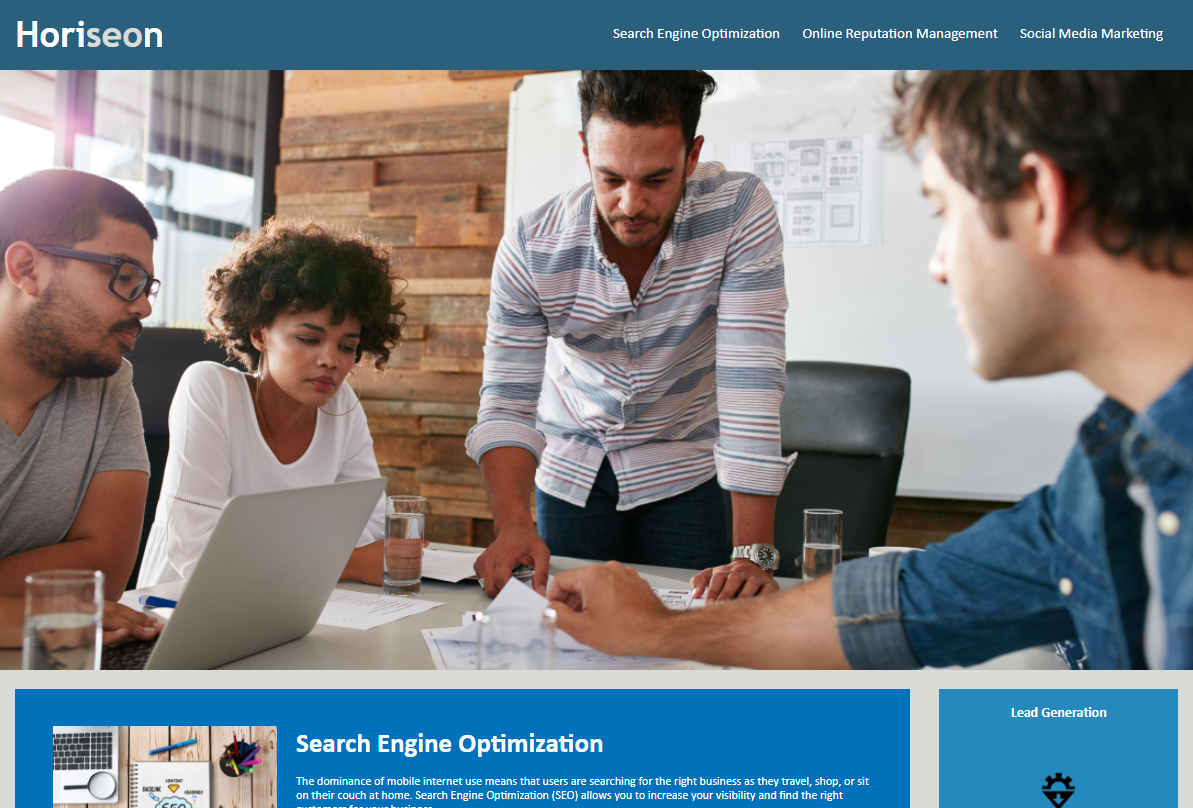
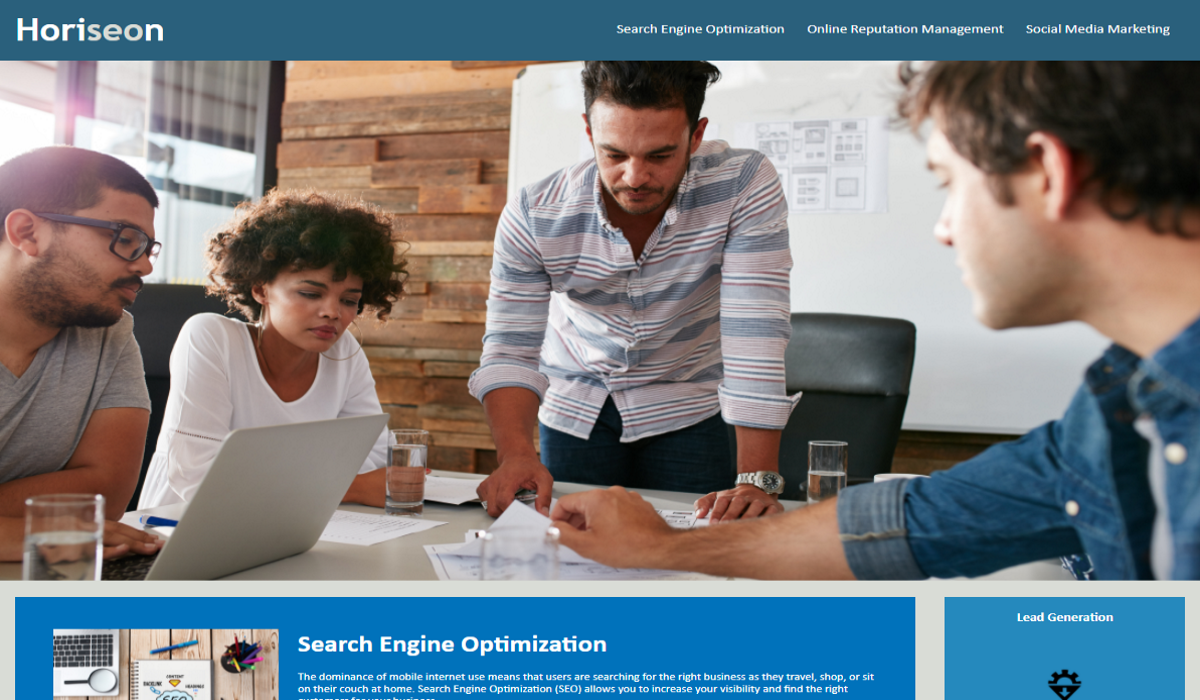
Getting closer- now fully responsive- minor aesthetic issues

diff --git a/index.html b/index.html
@@ -36,7 +36,10 @@
         </div>
 
         <div class="col-9 menu rightBox">
+          <img id= "selfPortrait" src="./img/lenoreAndMe.png">
           <p>Lorem ipsum dolor sit, amet consectetur adipisicing elit. Accusamus sapiente minima quas suscipit atque quibusdam dolores, dolor velit illum corrupti officiis recusandae modi unde omnis. Nam praesentium porro dicta error at, accusamus ipsum voluptatibus voluptate unde id impedit, inventore totam a voluptatem nemo. Maxime soluta sit inventore iste accusamus tempore non eaque? Tempora accusamus necessitatibus aperiam soluta ullam. Rem aut accusamus suscipit nihil, atque, maxime ipsum fugiat temporibus, consequuntur tempore blanditiis libero dolore voluptas quam mollitia sequi dolor perspiciatis vitae possimus! Explicabo tempora, laudantium repellendus, quo, sed ullam inventore placeat reprehenderit aliquam perspiciatis rem cupiditate maiores alias fuga excepturi.</p>
+          <p>Lorem ipsum dolor sit amet consectetur adipisicing elit. Suscipit aspernatur minus at maxime! Molestias cum dicta labore voluptatem tempore sint minima officiis? Tempora, et odit.</p>
+          <img id="wifeAndMe" src="./img/crissyAndMe.png">
         </div>
 
       </section>
@@ -46,9 +49,60 @@
         <div class="col-3 menu leftBox">
           <h1 id="works">My Works</h1>
         </div>
+        
+          <section class="col-9 menu gallery">
+              <section class="row">
+                <div class="col-12 menu">
+                  <section class="highlightedText1">
+                    <h2>SEO Website Refactoring Project</h2>
+                    <p>HTML</p>
+                  </section>
+                  <img class="bigPic" src="./img/refactorImage.png">
+                </div>
+              </section>
 
-        <div class="col-9 menu rightBox">
-          <p>Lorem ipsum dolor sit amet, consectetur adipisicing elit. Veritatis numquam accusamus culpa laborum iure dolore perspiciatis quos minus et dolor ut optio sit, unde autem adipisci laboriosam illum illo vitae voluptate ipsa! Expedita distinctio tenetur animi deleniti ipsam necessitatibus amet aliquid accusamus nam, totam ratione pariatur non, harum eveniet laborum. Sapiente debitis quo perferendis quos? Provident nisi facilis corrupti consequuntur porro, voluptatum asperiores, rem, minima exercitationem illo vel. Asperiores, perferendis! Cumque animi unde impedit aliquid. Voluptas, tempora. Tenetur voluptate, quam exercitationem nostrum suscipit fugit, sapiente perferendis hic dolores a qui placeat similique provident commodi, aliquid necessitatibus omnis? Iste neque voluptates cumque est aperiam voluptatum sunt laborum, quod odit rerum eligendi et!</p>
+              <section class="row">
+                <div class="col-6 menu">
+                  <section class="highlightedText2">
+                    <h2>Placeholder</h2>
+                    <p>HTML/CSS</p>
+                  </section>
+                  <img class="smolPic" src="./img/catImage.png">
+                </div>
+                <div class="col-6 menu">
+                  <section class="highlightedText2">
+                    <h2>Placeholder2</h2>
+                    <p>HTML/CSS/Javascript</p>
+                  </section>
+                  <img class="smolPic" src="./img/foodImage.png">
+                </div>
+              </section>
+
+              <section class="row">
+                <div class="col-6 menu">
+                  <section class="highlightedText2">
+                    <h2>Placeholder3</h2>
+                    <p>HTML/CSS/Javascript</p>
+                  </section>
+                  <img class="smolPic" src="./img/controllerImage.png">
+                </div>
+                <div class="col-6 menu">
+                  <section class="highlightedText2">
+                    <h2>Placeholder4</h2>
+                    <p>HTML/CSS/Javascript</p>
+                  </section>
+                  <img class="smolPic" src="./img/artImage.png">
+                </div>
+              </section>
+
+
+
+          </setion>
+        </section>
+
+
+
+
         </div>
 
       </section>

diff --git a/css/style.css b/css/style.css
@@ -20,6 +20,77 @@
 /* Format is fairly responsive, but a few media queries should tweak it for a few additional platforms */
 /* As page size shrinks, header values shrink and normal fonts grow */
 
+/* Minor cosmetic changes for Medium-windows and Tablets */
+@media only screen and (max-width: 1050px) {
+    .highlightedText1 h2 {
+        padding: 0 5px 0 15px !important;
+        font-size: 1.5rem;
+    }
+
+    .bottomLinx li {
+        padding: 25px !important;
+        font-size: 1.25rem !important;
+    }
+
+    nav a {
+        font-size: 1.25rem !important;
+    }
+
+    nav p {
+        padding: 0 25px 0 25px !important;
+    }
+
+    #bio, #works, #contact {
+        font-size: 1.75rem !important;
+    }
+}
+
+/* More drastic changes for small-windows and phones */
+@media only screen and (max-width: 699px) {
+    nav a {
+        font-size: 1rem !important;
+        margin: 5px !important;
+    }
+
+    .highlightedText1 h2 {
+        padding: 0 !important;
+        font-size: 1rem !important;
+    }
+
+    .highlightedText1 p {
+        padding: 0 !important;
+        font-size: 1rem !important;
+    }
+
+    .highlightedText2 {
+        font-size: 0.75rem !important;
+    }
+
+    #bio, #works,#contact {
+        font-size: 1.25rem !important;
+    }
+
+    .bottomLinx li {
+        padding: 10px !important;
+        font-size: 1rem !important;
+    }
+
+}
+
+/* The following settings should work for most phones */
+@media only screen and (max-width: 485px) {
+    #bio, #works, #contact {
+        font-size: 1rem !important;
+    }
+
+    .bottomLinx li {
+        padding: 0 0 10px 0 !important;
+        font-size: 1rem !important;
+        display: block !important;
+    }
+}
+
+
 
 main {
     padding-bottom: 35px;
@@ -120,7 +191,7 @@ nav a:hover {
 }
 
 
-.leftBox, #contactMe {
+.leftBox {
     padding: 25px;
     text-align: right;
     color: var(--cDarker);
@@ -136,6 +207,84 @@ nav a:hover {
     border-width: 5px;
     border-color: var(--cDarker);    
 }
+
+.rightBox p {
+    margin: 0px 5px 10x 5px;
+}
+
+#selfPortrait {
+    width: 30%;
+    float: right;
+}
+
+#wifeAndMe {
+    width: 100%;
+    padding-top: 25px;
+    padding-left: 10%;
+    padding-right: 10%;
+}
+
+.gallery {
+    border-right-style: none;
+    border-bottom-style:none;
+    border-top-style: none;
+    border-left-style: solid;
+    border-width: 5px;
+    border-color: var(--cDarker);    
+}
+
+.bigPic {
+    width: 90%;
+    padding: 0px;
+    margin: 0;
+    border: 5px solid var(--cLightBlue);
+    position: relative;
+}
+
+.smolPic {
+    width: 80%;
+    border: 5px solid var(--cLightBlue);
+    position: relative;
+}
+
+.highlightedText1 {
+    position: absolute;
+    z-index: 7;
+    padding-top: 25%;
+}
+
+.highlightedText1 h2 {
+    background-color: var(--cLightBlue);
+    color: var(--cDarker);
+    padding: 0 75px 0 15px;
+}
+
+.highlightedText1 p {
+    background-color: var(--cLightBlue);
+    color: var(--cDarkerBlue);
+    padding: 0 75px 0 15px;
+}
+
+
+.highlightedText2 {
+    position: absolute;
+    z-index: 7;
+    padding-top: 1%;
+    font-size: 1rem;
+}
+
+.highlightedText2 h2 {
+    background-color: var(--cLightBlue);
+    color: var(--cDarker);
+    padding-right: 15px;
+}
+
+.highlightedText2 p {
+    background-color: var(--cLightBlue);
+    color: var(--cDarkerBlue);
+    padding: 0 0 0 0;
+}
+
 
 .bottomLinx {
     height: 100px;
@@ -154,3 +303,4 @@ nav a:hover {
     padding: 50px;
     font-size: 1.5em;
 }
+
